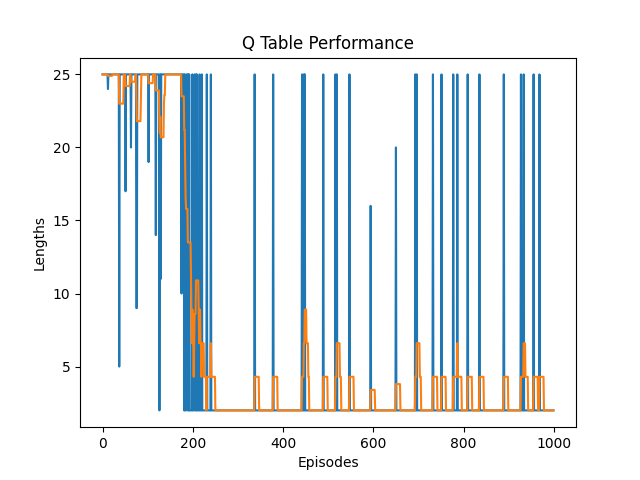
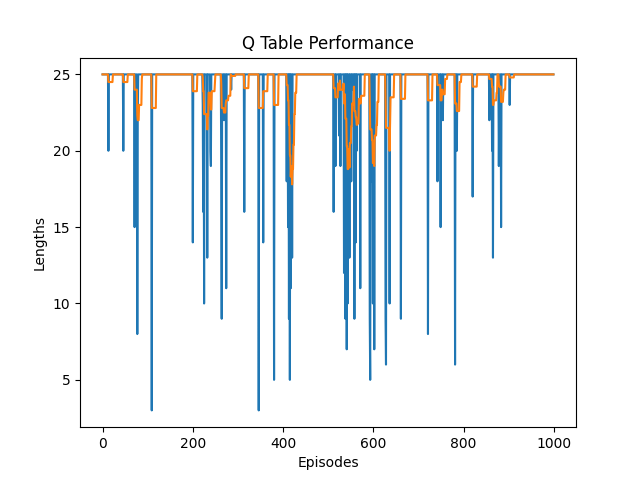
update algos

diff --git a/pool_algorithms/utils/visualizations.py b/pool_algorithms/utils/visualizations.py
@@ -22,8 +22,21 @@ for r, bar in zip(radii, bars):
 plt.savefig('C:/Users/evolj/Documents/GitHub/Temporary-CS229-pool/demo3.png', transparent=True)
 plt.show()
 
-cords=np.load("positions.npy")
-print(cords)
-plt.scatter(cords[:,0],cords[:,1])
-plt.savefig('C:/Users/evolj/Documents/GitHub/Temporary-CS229-pool/reachable_points.png', transparent=True)
+#cords=np.load("positions.npy")
+#print(cords)
+#plt.scatter(cords[:,0],cords[:,1])
+#plt.savefig('C:/Users/evolj/Documents/GitHub/Temporary-CS229-pool/reachable_points.png', transparent=True)
+#plt.show()
+
+k=[-38,-21,47,-43,-28,-37,-23,-31,-40,-29,-39,-27,35,-26,-26,-27,-22,-32,-34,-27,-25,-19,-33,-34,-37,-32,-26,-33,-37,-30,-22,-31,-31,-29,-28,-37,-40,-24,-39,-32,-39,-59,-25,-37,-28,-27,19,-20,-36,-38,-38,-31,-34,-38,-32,-32,-26,-50,-28,-30,24,-41,-30,-22,-38,-33,-23,-42,-27,-24,-22,-26,-34,-36,-49,-25,-27,-37,-29,-35,16,-22,-33,-27,-32,-41,-36,-25,-39,-34,-24,-33,-33,-22,-42,-27,-26,-29,-33,-28,-28,-27,-32,-32,-42,-29,-26,-36,-33,-28,-33,39,-28,-38,-33,-28,-26,-27,34,-27,-27,-37,41,-27,-31,-26,-41,35,-37,-20,-25,-31,-33,-26,-32,-28,-22,-34,22,-22,-42,-31,-32,-33,-23,-27,-34,-33,-34,-39,-38,-33,-26,-39,-28,-24,-29,-28,-32,-33,-29,-27,-34,-31,-43,-27,-28,-23,-29,-37,-27,-27,-26,-37,-33,-33,-21,-27,-37,-22,-26,-29,-36,-27,-28,-29,-28,-22,-34,-27,-41,-30,-34,-27,-24,-24,-24,-27,-37,-26,-27,43,-28,-27,48,48,-28,40,-32,32,-31,-28,-27,-28,-31,-26,-33,-27,-33,-31,-28,-37,-32,-31,-20,-26,-21,-31,-22,-27,-37,-22,-22,-28,-26,47,-22,-20,-24,-27,-22,-22,-32,-19,-27,-22,-21,-26,-26,-26,-35,-28,-27,-31,-22,-32,-21,-22,-32,-26,-26,-18,-26,-27,-27,-24,-26,-22,-27,-20,-29,-31,-24,-31,45,47,47,47,-31,-21,-29,-25,33,-31,-27,-29,-27,-26,-27,-20,-27,-20,-25,-19,-32,-24,-25,-26,-23,-21,-21,-28,-28,-22,-33,-23,-22,-27,-28,-22,-27,-22,-31,44,-27,-22,-26,-30,-26,-24,-18,-24,-28,-27,-23,-26,-23,-25,-27,-26,-33,-31,-27,-32,-26,-28,-37,-27,-22,-28,-22,-28,-25,-28,47,-33,-23,-26,-27,-21,28,-35,-31,-23,-32,-27,-31,-21,-29,-27,-34,-26,-27,-37,-25,-20,-29,-38,-27,-36,-28,-23,-27,-28,-27,-38,-23,-27,-28,-22,-32,-32,-29,-27,-22,-32,-21,-28,-23,-26,-27,-32,-33,-31,-25,24,41,-28,-31,-31,-33,-33,-28,-28,-28,-28,-30,-28,-31,-27,-33,-23,-28,-19,-27,-25,-24,-26,-25,-23,-27,-28,-22,46,-33,-23,-27,-21,-30,-32,-22,-38,-23,-28,-26,-36,-37,35,-27,-32,-28,-26,-36,-33,-26,-31,-25,-38,-32,-33,-31,-24,-36,-28,-31,-33,-22,-37,26,-28,-26,-32,-35,-28,-33,-25,-23,-32,-26,-27,-30,27,-26,-32,-25,-26,-32,-37,-28,-27,-28,-22,-28,-27,-23,-23,-27,-23,-25,-32,-31,-26,-28,-33,-28,-25,-23,-28,-28,-33,-28,-28,-28,-38,-23,-28,-28,-28,-23,-33,-28,39,-27,-23,-32,-25,-28,-27,-21,-33,-28,-28,-28,-24,-23,-33,48,-33,-25,33,36,-27,49,46,-28,-32,45,-25,47,-31,-33,-27,47,-32,38,45,45,45,45,45,45,-26,45,45,45,45,44,45,45,45,45,45,45,45,45,45,45,45,45,45,45,45,45,45,45,45,45,45,45,45,45,45,45,45,45,45,45,45,45,45,45,45,45,45,45,45,45,45,45,45,45,45,45,45,45,45,45,45,45,45,45,45,45,45,45,45,45,45,45,45,45,45,45,45,45,45,45,45,45,45,45,45,45,45,45,45,45,45,45,45,45,45,45,45,45,45,45,45,37,44,45,45,45,45,45,45,45,-30,45,45,45,45,45,45,45,45,-22,45,45,45,-33,45,45,45,45,45,45,45,45,45,-34,-29,45,45,45,45,45,-25,45,45,45,45,45,45,45,-32,45,45,45,45,45,45,45,45,45,45,-23,45,45,45,45,45,45,45,45,45,45,45,45,45,45,-28,45,45,45,45,45,-27,45,45,45,45,45,45,45,45,45,45,45,45,45,45,45,45,45,45,45,42,45,45,45,45,45,45,45,45,-23,45,45,45,45,45,45,45,45,45,-37,45,45,45,45,45,45,45,45,45,45,45,45,45,45,45,45,45,45,45,45,45,45,45,45,45,45,45,45,45,45,45,45,45,45,45,45,45,45,45,45,45,45,-22,45,45,45,-23,49,45,45,45,-26,45,45,45,45,45,45,45,45,45,45,45,45,-21,39,45,45,45,45,45,45,45,45,45,45,45,45,45,45,45,45,45,45,45,45,45,45,45,45,45,45,-27,45,45,45,-25,45,45,45,45,45,45,45,45,45,45,45,45,45,45,45,45,45,45,45,45,45,45,-26,45,45,45,45,45,45,45,45,45,45,45,45,45,45,45,45,45,45,45,45,45,45,45,45,-28,45,45,45,45,45,45,45,45,-27,45,45,45,45,45,45,45,45,45,45,45,45,45,45,45,45,45,45,45,45,45,45,45,45,45,45,45,45,45,45,45,45,45,45,45,45,45,45,45,45,45,45,45,45,45,45,45,-30,45,45,45,46,45,-34,45,45,45,45,45,45,45,45,45,45,45,45,45,45,45,45,-26,45,44,45,45,45,45,45,45,-29,45,-28,45,45,45,45,45,45,41,45,45,45,45,45,46,45,45,44,45,45,45,45,45,45,45,45,45,45,45,45,45,45,45,45,45,45,43,-32,45,45,45,43,45,45,45,45,45,45,45,45,45,45,45,45,45,45,45,45,45,43,45,45,45,45,45,45,45,45,45,45,45,45,45,45,45,45,45,45,45,45,45,45,45,45,45,-30,45,45,45,45,45,45,45,45,45,45,-32,45,45,45,45,45,45,45,45,45,45,45,45,45,45,45,45,45,45,45,45,45,45,26,45,45,45,45,45,45,45,45,45,45,45,45,45,45,45,41,45,45,45,45,45,45,45,45,45,45,45,45,45,45,45,45,45,45,-27,45,45,44,45,28,45,45,-32,45,45,45,45,-21,45,45,45,45,45,45,45,45,45,45,46,45,-31,45,45,45,23,45,45,45,-14,45,-31,45,45,45,45,45,45,45,45,45,-30,45,45,45,45,45,45,45,45,45,45,45,45,45,45,45,45,45,45,45,45,45,45,45,45,45,45,45,45,45,45,45,45,45,45,45,45,45,45,45,45,45,45,45,47,45,45,45,45,45,45,45,45,45,45,45,45,45,45,45,45,45,45,45,45,45,45,45,45,45,45,45,45,45,45,40,45,45,45,45,45,45,45,45,45,45,-32,45,45,45,45,45,45,45,45,45,45,45,45,45,45,45,45,45,45,45,45,45,45,45,45,45,45,45,45,45,45,45,45,45,45,45,45,45,45,-23,45,45,45,45,45,45,45,45,45,45,45,45,45,45,45,45,45,45,45,45,45,45,45,45,45,45,45,45,45,45,45,45,45,45,45,45,45,45,45,45,45,45,45,45,45,45,45,45,45,45,45,45,45,45,45,45,45,45,45,45,45,45,45,45,45,45,45,-22,45,45,45,45,45,45,45,-23,45,45,45,45,45,45,45,45,43,-27,45,45,45,45,45,45,45,45,35,45,45,45,45,45,45,45,45,45,45,45,45,45,45,45,45,45,45,42,-36,45,45,45,45,45,45,45,45,45,-25,45,45,45,48,45,45,45,45,39,45,45,45,45,45,45,45,45,45,45,45,45,45,45,45,45,45,45,45,45,45,45,45,45,45,45,45,45,45,45,45,45,45,45,45,45,45,45,45,45,45,-22,45,45,45,45,45,45,-25,45,45,45,45,45,45,45,45,45,45,45,45,45,45,45,45,45,45,45,45,45,45,36,45,45,45,45,45,45,45,45,45,-27,-23,41,45,-21,45,-27,45,45,45,45,45,45,45,45,45,45,45,45,45,-24,45,-23,45,45,45,45,45,45,45,45,45,45,45,45,45,39,45,45,45,45,45,45,45,45,45,45,45,45,45,45,45,42,45,45,45,45,45,45,45,45,45,45,45,45,45,45,45,45,45,45,45,45,45,45,45,45,45,45,45,45,45,45,45,45,45,45,45,45,45,45,45,45,45,-24,45,45,45,45,45,45,45,45,45,45,45,45,45,45,-24,45,45,45,45,45,45,45,45,45,45,45,45,45,45,45,45,45,45,45,45,45,45,45,45,45,45,45,45,45,45,-22,-35,45,45,45,45,45,45,45,45,45,45,45,45,45,45,45,45,45,45,45,45,45,45,45,45,-20,45,45,45,45,45,45,45,45,45,45,45,45,45,45,45,45,45,45,45,45,45,-28,45,45,45,45,45,45,45,45,45,45,45,45,45,45,45,45,45,45,45,45,45,45,45,45,45,45,45,45,45,46,45,45,45,45,45,45,45,45,45,45,45,45,43,45,45,45,45,45,45,45,45,45,45,45,42,-38,45,45,45,45,45,45,45,45,45,45,45,45,45,45,45,45,45,45,45,45,45,45,45,45,45,45,45,45,45,45,45,45,45,45,45,45,45,45,45,45,45,45,45,45,45,45,45,45,45,45,45,45,45,45,45,45,45,45,45,45,45,45,45,45,45,45,45,45,45,45,47,45,45,43,45,45,45,45,45,45,45,45,45,45,45,45,45,-24,45,45,45,45,45,45,45,45,45,44,45,45,45,45,-23,45,45,45,45,45,45,45,45,45,45,45,45,45,45,45,45,45,45,45,45,45,45,45,45,45,45,45,45,45,45,45,45,45,45,45,45,45,45,45,45,45,45,45,45,45,45,45,45,45,45,45,45,45,45,45,45,45,45,45,45,45,45,45,45,45,45,45,45,45,45,45,45,45,45,45,45,45,45,45,45,45,45,45,45,45,45,45,45,45,45,45,45,45,-33,45,45,45,45,45,45,45,45,45,45,45,41,45,45,45,45,45,45,45,45,45,45,45,45,-28,45,45,45,45,45,45,45,45,-28,45,45,45,45,45,45,45,45,45,45,45,-25,45,45,45,45,45,45,45,45,45,45,45,45,45,45,45,45,45,45,45,45,-27,45,45,45,45,45,45,45,45,45,45,45,45,45,45,45,45,45,45,45,45,45,45,45,45,45,45,-21,45,45,45,45,45,45,45,45,45,45,45,45,45,45,45,45,45,45,45,45,-31,45,45,45,45,45,45,45,45,45,45,45,45,45,45,45,45,45,45,45,45,-36,45,45,45,45,45,45,45,45,-26,45,45,-23,40,45,45,45,45,45,45,45,45,45,45,45,45,45,45,45,45,45,45,45,45,45,45,45,45,45,45,23,45,-24,45,44,45,45,45,45,45,45,45,45,45,45,-26,45,45,45,45,45,45,45,45,45,45,45,45,45,45,45,45,45,45,45,45,45,45,45,45,45,45,45,45,45,-23,45,45,45,-27,45,-28,45,45,-28,45,45,45,45,45,45,45,45,45,-32,45,45,45,45,45,45,45,45,45,45,45,45,45,45,45,45,45,45,45,45,45,45,45,45,45,45,45,45,45,45,45,45,45,45,45,45,45,45,45,45,45,45,45,45,45,45,45,45,45,45,45,45,45,-36,45,45,-32,45,45,45,45,41,45,45,45,45,45,45,45,45,45,45,44,45,45,45,-25,45,45,45,45,45,45,45,45,45,45,45,45,45,45,45,45,45,45,45,45,-22,45,45,45,45,45,45,45,45,45,45,45,45,45,45,45,45,45,45,45,45,45,45,45,45,45,45,45,45,45,45,45,45,45,45,45,45,45,45,45,45,45,45,45,45,45,45,45,45,45,31,45,45,45,45,45,45,45,45,45,45,45,45,45,45,-32,45,45,45,45,45,45,45,45,45,45,45,45,45,45,45,45,45,45,45,45,45,45,45,45,45,45,45,45,45,45,-24,45,45,45,45,45,45,45,45,45,45,45,45,45,45,45,45,45,45,45,45,45,34,45,45,45,45,45,45,45,45,-26,45,45,45,45,45,45,45,45,45,45,45,45,45,45,45,45,-31,45,45,45,45,45,-27,45,45,45,45,45,45,45,45,45,45,45,45,45,45,45,45,45,45,45,45,45,45,45,45,45,-23,45,45,45,45,45,45,45,45,45,45,45,45,45,45,-32,45,45,45,45,45,45,45,45,45,45,45,45,45,45,45,45,45,45,43,45,45,45,45,45,45,45,45,45,45,45,45,45,45,45,45,45,45,45,45,45,-26,45,-25,45,45,45,45,44,-36,45,45,45,45,45,45,45,41,45,45,45,45,45,45,45,45,45,45,45,45,45,45,45,45,45,45,45,45,45,-27,45,45,45,45,45,45,-23,-39,45,-24,-33,45,45,45,45,45,45,45,45,45,-28,45,45,45,45,45,45,45,45,45,45,45,45,45,-23,45,45,-26,45,45,45,45,45,45,45,45,45,45,45,45,45,45,45,45,45,45,45,45,45,45,45,45,45,45,45,45,45,45,45,45,45,45,45,45,45,45,45,45,45,45,45,45,45,45,45,45,45,42,45,45,45,45,45,45,45,45,45,45,45,-23,45,45,45,45,45,45,45,45,45,-27,45,45,45,45,45,45,45,45,45,45,45,45,45,45,45,45,45,45,45,45,44,45,45,45,45,45,45,45,45,45,45,45,45,-23,45,45,45,45,-27,45,45,45,45,45,45,45,45,45,45,45,45,45,45,45,45,45,45,45,45,45,45,45,45,45,45,45,45,45,45,45,45,45,45,45,45,44,45,45,45,45,45,45,45,45,45,-32,45,45,45,-21,-28,45,45,45,45,45,45,45,45,-27,45,45,45,45,45,45,45,45,45,45,45,45,45,45,-25,45,45,45,45,45,45,45,45,45,45,45,45,45,45,39,45,45,45,45,45,45,45,-27,45,45,45,45,45,45,45,45,45,45,45,45,-32,45,45,45,45,45,45,45,45,45,45,45,45,-24,45,45,45,45,45,45,45,-20,45,45,45,45,45,45,45,45,45,45,45,45,45,45,42,45,45,45,45,45,45,45,45,45,45,45,45,45,45,45,45,45,45,45,45,45,45,45,45,45,45,45,-33,45,45,45,45,45,44,-27,45,45,45,36,45,46,45,45,45,45,45,45,45,45,45,45,45,45,45,45,45,45,45,45,45,45,45,45,45,45,45,45,45,45,45,45,45,45,45,45,45,45,45,45,45,45,45,45,45,45,45,45,45,45,45,45,45,45,45,45,45,45,45,45,45,45,45,45,45,45,45,45,45,45,45,45,45,45,45,45,45,45,45,45,45,45,45,45,45,45,45,45,45,45,45,45,45,45,45,-28,45,45,45,45,45,45,45,45,45,45,45,45,45,45,45,45,45,45,45,45,45,45,45,45,45,45,45,45,45,45,45,45,45,45,45,45,45,45,45,45,45,45,45,45,45,-31,45,45,45,45,45,45,-28,45,45,45,45,45,45,45,45,45,45,45,41,45,45,45,45,-22,45,45,45,45,45,45,45,45,45,45,45,45,45,45,45,45,45,45,45,45,45,45,45,45,45,45,45,45,45,-24,45,45,45,45,45,45,45,45,45,45,-32,45,45,-28,45,45,45,45,45,45,45,45,-18,45,45,45,45,45,45,45,45,45,45,45,45,45,45,45,42,45,45,45,45,45,45,45,46,41,45,45,45,45,45,45,45,45,45,45,45,45,45,45,45,45,45,45,45,45,45,46,45,45,-26,45,45,45,45,45,45,45,45,45,45,45,45,45,-28,45,45,45,45,45,45,45,45,45,45,-25,45,45,45,-28,32,45,45,45,45,45,45,45,45,45,45,45,45,45,45,45,45,45,45,45,45,45,45,45,45,45,45,45,45,45,45,45,45,45,45,45,45,45,45,45,45,45,45,45,44,45,45,45,45,45,45,45,45,45,-28,45,45,45,45,45,45,45,45,-23,45,45,45,45,45,45,45,45,45,45,45,45,45,44,45,45,45,-23,45,45,45,45,45,45,45,45,45,45,45,45,45,45,45,45,45,45,45,45,36,45,45,45,45,45,45,45,45,45,45,45,45,45,45,45,45,45,45,45,45,45,45,45,45,46,45,45,35,45,45,45,45,45,45,45,45,45,45,45,45,45,46,45,45,19,45,45,45,45,45,45,45,45,45,45,45,45,45,45,45,45,45,45,45,45,45,45,-25,45,45,45,45,45,45,45,45,45,45,45,45,45,45,45,45,45,45,45,45,45,-24,45,45,45,45,45,45,45,45,45,45,45,45,45,45,45,45,45,45,45,-24,45,45,45,45,45,45,45,45,45,45,45,45,45,45,45,45,45,45,45,45,45,45,45,45,45,45,45,45,45,45,45,-23,45,45,45,45,45,45,45,45,45,45,45,45,45,45,45,45,45,45,45,45,-26,45,45,45,45,45,45,45,45,45,45,45,45,45,45,24,45,45,45,45,45,45,45,45,45,-31,45,45,45,45,45,45,45,45,45,45,45,45,45,45,45,45,45,45,45,45,45,-26,45,45,45,45,45,45,45,45,45,45,45,45,45,45,45,45,45,45,45,-24,45,45,45,45,45,45,45,45,45,-27,38,45,45,44,45,45,45,45,45,48,45,45,-27,45,45,45,45,45,45,45,45,45,-24,45,45,45,45,45,45,45,45,45,45,45,45,41,45,45,45,45,45,45,45,45,45,45,45,45,45,45,45,45,45,45,45,45,45,45,45,-33,45,45,45,45,45,45,45,45,45,45,45,45,45,45,-31,45,45,-31,45,-27,45,45,45,45,45,45,45,45,45,44,45,45,45,45,45,45,45,45,45,45,45,45,45,45,45,-23,45,45,45,45,45,45,45,45,45,45,-31,45,45,45,45,45,-24,45,45,45,45,45,45,45,45,45,45,45,45,45,45,45,45,45,-26,45,45,45,45,45,45,45,45,45,45,45,45,-24,45,45,45,45,45,45,45,45,45,45,45,45,45,45,45,45,-24,45,45,45,45,45,45,45,45,45,45,45,45,45,45,45,45,45,45,45,45,45,45,45,45,45,45,45,45,45,45,45,45,45,45,45,45,45,45,45,45,45,45,45,45,45,45,45,45,-23,45,45,45,45,45,-27,45,45,45,45,43,45,45,45,45,45,45,45,45,45,45,45,40,45,45,45,45,45,45,45,45,45,45,45,45,45,45,45,45,45,45,45,43,45,45,45,43,45,45,45,45,45,45,45,45,45,45,45,45,45,45,45,45,45,45,45,45,45,45,45,45,45,45,45,45,48,45,45,45,45,45,-23,45,-24,45,45,45,45,45,45,-23,45,45,45,45,45,45,45,45,45,45,45,45,45,45,45,45,45,45,45,45,45,-26,45,45,45,45,45,45,45,45,45,45,-22,45,45,45,45,45,45,45,45,45,45,45,-31,45,45,45,45,45,45,45,45,45,45,45,-24,45,45,45,45,45,45,45,45,45,45,45,45,45,45,45,45,-27,45,45,45,45,45,45,45,24,45,45,45,45,45,45,45,45,45,45,45,-32,45,45,45,45,42,45,45,-23,45,45,45,45,45,45,45,-27,45,45,45,45,45,45,45,-28,45,45]
+plt.plot(k)
+def moving_average(a, n=10) :
+    ret = np.cumsum(a, dtype=float)
+    ret[n:] = ret[n:] - ret[:-n]
+    return ret[n - 1:] / n
+plt.plot(moving_average(k))
+plt.xlabel('Episodes')
+plt.ylabel('rewards')
+plt.title('Q Table Performance')
+#plt.savefig('output\\qtable_rewards_3_3.png')
 plt.show()

diff --git a/pool_algorithms/models/q_table/q_table_new.py b/pool_algorithms/models/q_table/q_table_new.py
@@ -80,6 +80,7 @@ def train(env, model_path, episodes=200, episode_length=50):
 
     save_model(model_path, q_table)
     print(results)
+    print(lengths)
     plt.plot(lengths)
     plt.plot(avg_lengths)
     plt.xlabel('Episodes')

diff --git a/pool_algorithms/models/train.py b/pool_algorithms/models/train.py
@@ -12,7 +12,7 @@ import gym_pool
 
 env=gym.make('gym_pool:Pool-v0')
 
-EPISODES = 1000
+EPISODES = 4000
 EPISODE_LENGTH = 25
 
 if __name__ == '__main__':
